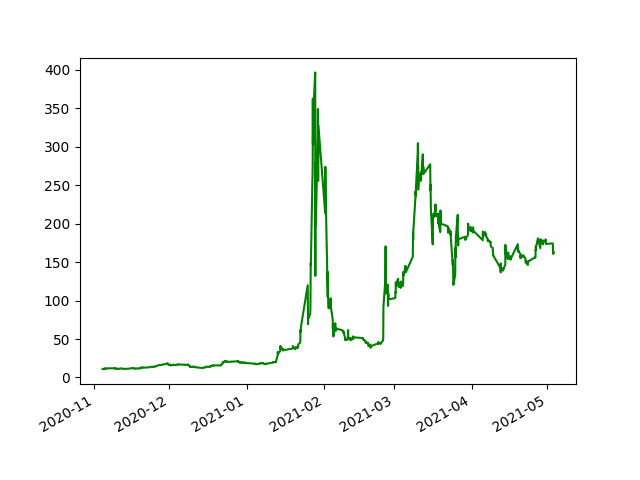
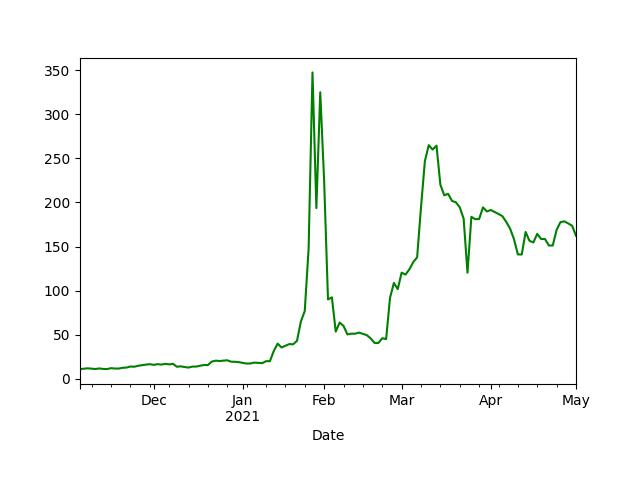
-v3
updated controller and changed % catculation

diff --git a/NAFABot/NAFA.py b/NAFABot/NAFA.py
@@ -43,21 +43,16 @@ class Ticker:
         self.tickerLow = self.tickerAPIData[0][2]
         self.tickerVolume = self.tickerAPIData[0][5]
 
-        if float(yfinance.download(self.tickerSymbol, period="5d").values.tolist()[3][3]) > self.tickerClose:
-            change = float(yfinance.download(self.tickerSymbol, period="5d").values.tolist()[3][3]) - \
-                     float(self.tickerClose)
-
-            self.tickerChange = "-" + str(format(float((change / self.tickerClose) * 100), '.2f')) + "%"
-
-        elif float(yfinance.download(self.tickerSymbol, period="5d").values.tolist()[3][3]) < self.tickerClose:
-            change = float(self.tickerClose) - float(yfinance.download(self.tickerSymbol,
-                                                                       period="5d").values.tolist()[3][3])
-
-            self.tickerChange = "+" + str(format(float((change / self.tickerClose) * 100), '.2f')) + "%"
+        self.getChange()
 
     def getChange(self):
-        self.tickerChange = self.calculateChange(self.tickerClose, yfinance.download(self.tickerSymbol,
-                                                                                     period="5d").values.tolist()[3][3])
+        self.tickerChange = ""
+        try:
+            data = yfinance.download(self.tickerSymbol, period="5d", prepost=True).values.tolist()
+            self.tickerChange = self.calculateChange(data[4][3], data[3][3])
+        except:
+            print("NAFA ERROR: Unable to update change")
+
         return self.tickerChange
 
     def calculateChange(self, current, previous):
@@ -66,7 +61,7 @@ class Ticker:
         try:
             return str((abs(current - previous) / previous) * 100.0) + "%"
         except ZeroDivisionError:
-            return "%"
+            return "x%"
 
     def plotGraphs(self):
         # Plot for 1 day and save as graph1.png
@@ -76,31 +71,31 @@ class Ticker:
         pyplot.cla()
 
         # Plot for 5 days and save as graph5.png
-        self.tickerGraphData = yfinance.download(self.tickerSymbol, period="5d", interval="15m")
+        self.tickerGraphData = yfinance.download(self.tickerSymbol, period="5d", interval="5m")
         self.tickerGraphData.Close.plot(color="green", linestyle="solid")
         self.saveGraph("graph5.png")
         pyplot.cla()
 
         # Plot for 1 month and save as graph30.png
-        self.tickerGraphData = yfinance.download(self.tickerSymbol, period="1mo", interval="1h")
+        self.tickerGraphData = yfinance.download(self.tickerSymbol, period="1mo", interval="1d")
         self.tickerGraphData.Close.plot(color="green", linestyle="solid")
         self.saveGraph("graph30.png")
         pyplot.cla()
 
         # Plot for 3 months and save as graph90.png
-        self.tickerGraphData = yfinance.download(self.tickerSymbol, period="3mo", interval="1h")
+        self.tickerGraphData = yfinance.download(self.tickerSymbol, period="3mo", interval="1d")
         self.tickerGraphData.Close.plot(color="green", linestyle="solid")
         self.saveGraph("graph90.png")
         pyplot.cla()
 
         # Plot for 6 months and save as graph180.png
-        self.tickerGraphData = yfinance.download(self.tickerSymbol, period="6mo", interval="1h")
+        self.tickerGraphData = yfinance.download(self.tickerSymbol, period="6mo", interval="1d")
         self.tickerGraphData.Close.plot(color="green", linestyle="solid")
         self.saveGraph("graph180.png")
         pyplot.cla()
 
         # Plot for 1 year and save as graph360.png
-        self.tickerGraphData = yfinance.download(self.tickerSymbol, period="1y")
+        self.tickerGraphData = yfinance.download(self.tickerSymbol, period="1y", interval="1d")
         self.tickerGraphData.Close.plot(color="green", linestyle="solid")
         self.saveGraph("graph360.png")
         pyplot.cla()
